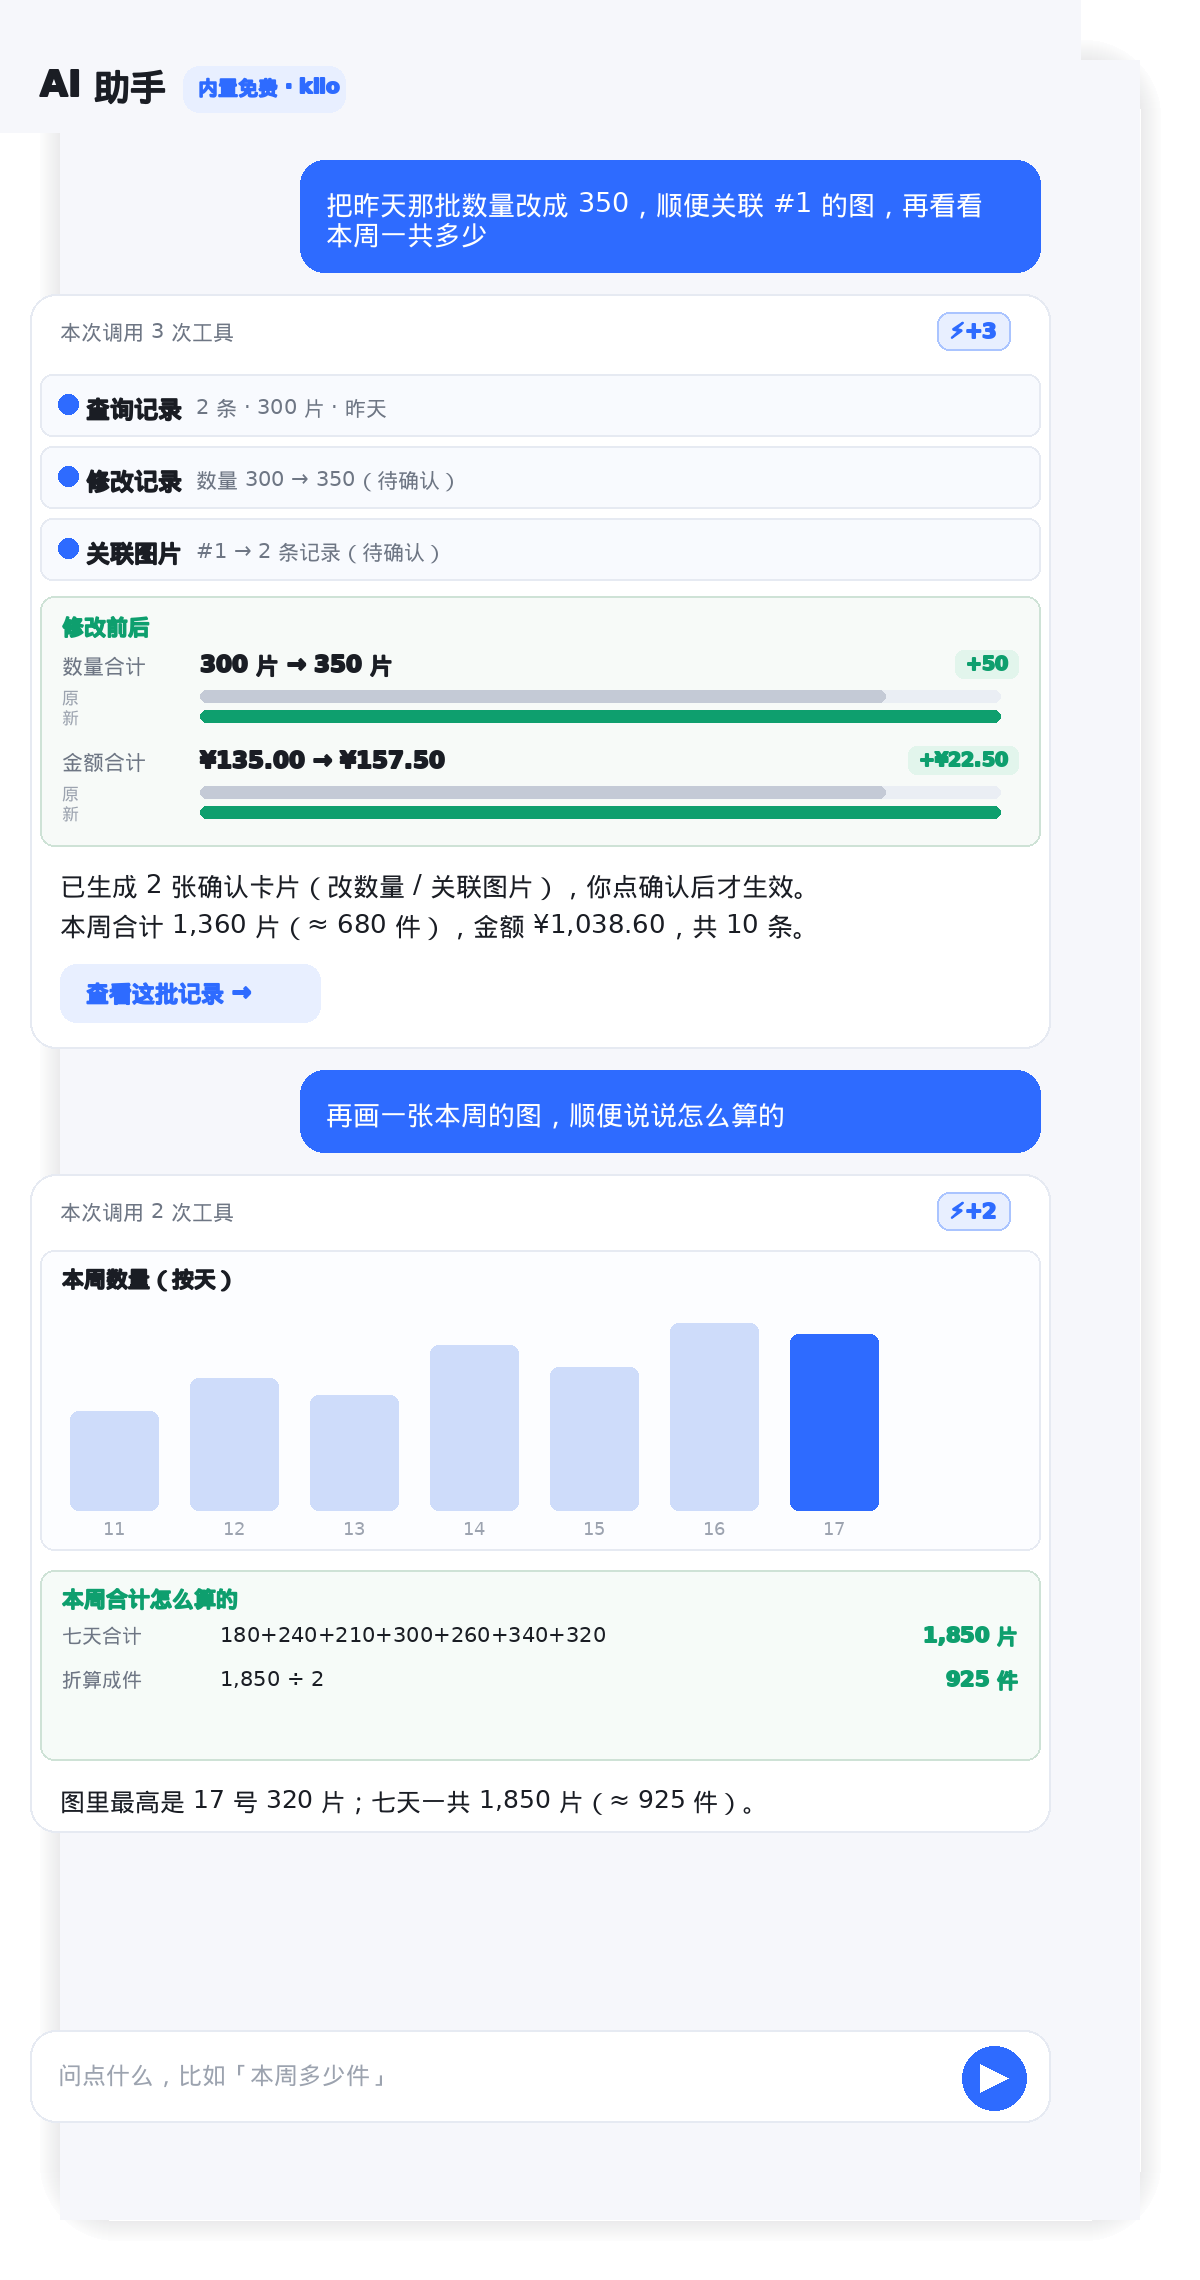
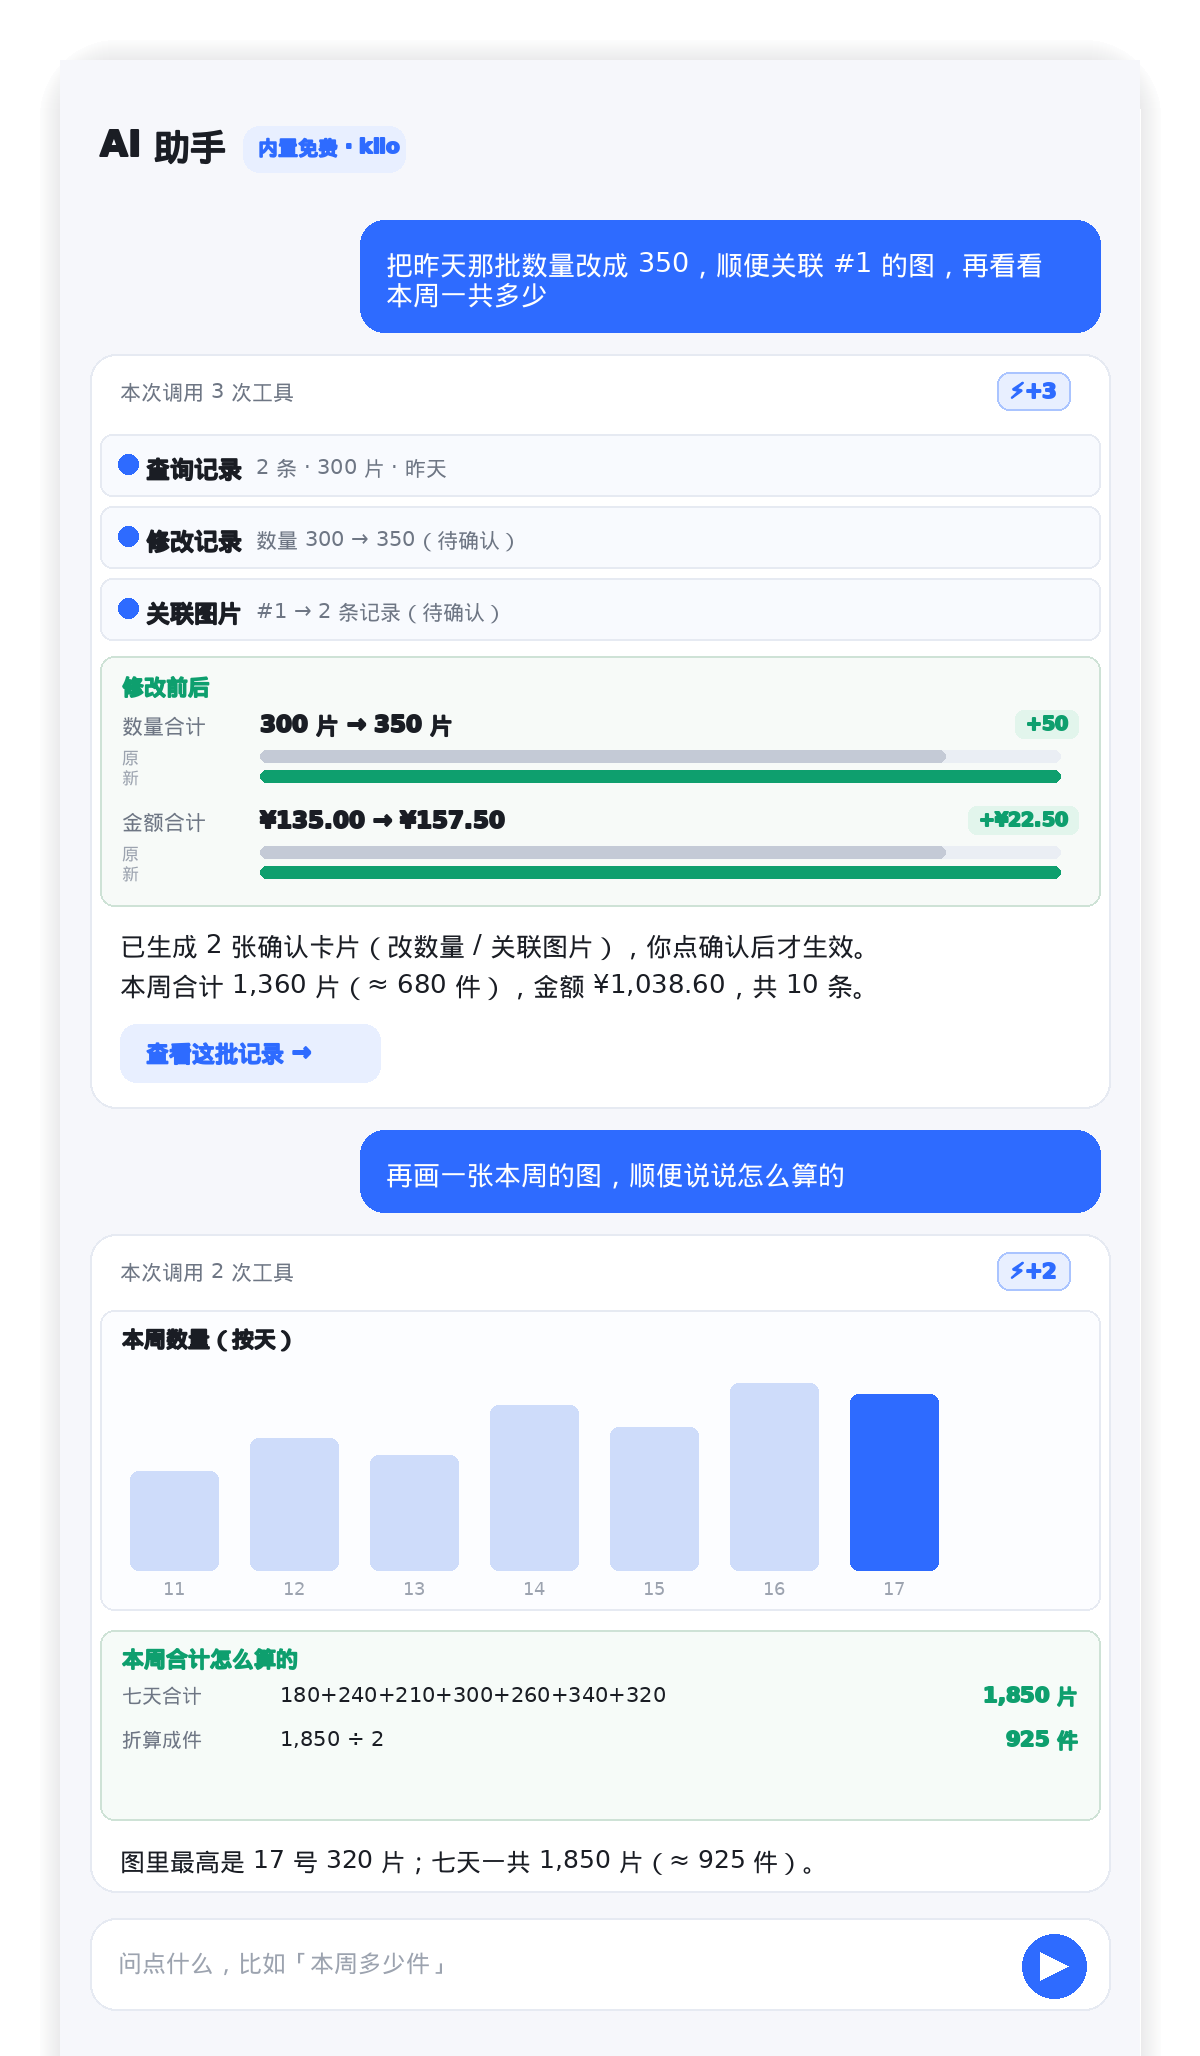
fix(docs): 修 Agent 示意图错位（卡片跑到手机框外）
- 原因：内容画在手机框画布上（坐标 0..W），但屏幕区从 (60,60) 开始，
  整体左上偏移 60px，卡片因此压到边框外
- 改为先画在屏幕层（W×H）再整体贴进框内
- 同时按内容高度裁掉下方空白，手机框跟着变短（不再有大片空区）

diff --git a/tool/make_agent_previews.py b/tool/make_agent_previews.py
@@ -152,8 +152,9 @@ def diff_block(d, y):
     return y + 250
 
 
-def input_bar(d):
-    y = H - 130
+def input_bar(d, y=None):
+    if y is None:
+        y = H - 130
     d.rounded_rectangle((30, y, W - 30, y + 92), radius=26, fill=CARD,
                         outline=LINE, width=2)
     text(d, (58, y + 28), '问点什么，比如「本周多少件」', 24, INK3)
@@ -174,8 +175,9 @@ def appbar(d, title, chip=''):
 
 
 def agent_chat():
-    img = frame()
-    d = ImageDraw.Draw(img)
+    frame_img = frame()
+    screen = Image.new('RGBA', (W, H), BG + (255,))
+    d = ImageDraw.Draw(screen)
     appbar(d, 'AI 助手', '内置免费 · kilo')
     y = 160
     # 用户气泡（多需求）
@@ -220,10 +222,10 @@ def agent_chat():
     cd = ImageDraw.Draw(card)
     cd.rounded_rectangle((30, box_top, W - 30, box_bottom), radius=26,
                          fill=CARD, outline=LINE, width=2)
-    img.alpha_composite(card, (0, 0))
-    img.alpha_composite(layer, (0, 0))
+    screen.alpha_composite(card, (0, 0))
+    screen.alpha_composite(layer, (0, 0))
 
-    d = ImageDraw.Draw(img)
+    d = ImageDraw.Draw(screen)
     y2 = box_bottom + 22
     y2 = bubble_user(d, y2, ['再画一张本周的图，顺便说说怎么算的']) + 22
 
@@ -278,16 +280,22 @@ def agent_chat():
     cd2 = ImageDraw.Draw(card2)
     cd2.rounded_rectangle((30, top2, W - 30, bottom2), radius=26, fill=CARD,
                           outline=LINE, width=2)
-    img.alpha_composite(card2, (0, 0))
-    img.alpha_composite(layer2, (0, 0))
+    screen.alpha_composite(card2, (0, 0))
+    screen.alpha_composite(layer2, (0, 0))
 
-    input_bar(ImageDraw.Draw(img))
-    img.save(os.path.join(OUT, 'agent_chat.png'))
+    ib_y = bottom2 + 26
+    input_bar(ImageDraw.Draw(screen), ib_y)
+    frame_img.alpha_composite(screen, (60, 60))
+    # 按内容高度裁掉下方空白（手机框跟着变短，不留大片空区）
+    cut = min(H + 120, 60 + ib_y + 92 + 46)
+    frame_img = frame_img.crop((0, 0, W + 120, cut))
+    frame_img.save(os.path.join(OUT, 'agent_chat.png'))
 
 
 def agent_terminal():
-    img = frame()
-    d = ImageDraw.Draw(img)
+    frame_img = frame()
+    screen = Image.new('RGBA', (W, H), BG + (255,))
+    d = ImageDraw.Draw(screen)
     appbar(d, 'AI 助手')
     y = 150
     lines = wrap(d, '把 #1 的图关联到昨天那批，再用终端确认一下', 27, 660)
@@ -330,9 +338,9 @@ def agent_terminal():
     card = Image.new('RGBA', (W, H), (0, 0, 0, 0))
     cd = ImageDraw.Draw(card)
     cd.rounded_rectangle((30, top, W - 30, term_bottom), radius=26, fill=DARK)
-    img.alpha_composite(card, (0, 0))
-    img.alpha_composite(layer, (0, 0))
-    d = ImageDraw.Draw(img)
+    screen.alpha_composite(card, (0, 0))
+    screen.alpha_composite(layer, (0, 0))
+    d = ImageDraw.Draw(screen)
 
     # AI 回复
     ry = term_bottom + 24
@@ -358,8 +366,12 @@ def agent_terminal():
     d.rounded_rectangle((300, cy + 396, 300 + 200, cy + 452), radius=14,
                         fill=(236, 239, 245))
     text(d, (326, cy + 410), '取消', 24, INK2, bold=True)
-    input_bar(d)
-    img.save(os.path.join(OUT, 'agent_terminal.png'))
+    ib_y = cy + 470 + 26
+    input_bar(d, ib_y)
+    frame_img.alpha_composite(screen, (60, 60))
+    cut = min(H + 120, 60 + ib_y + 92 + 46)
+    frame_img = frame_img.crop((0, 0, W + 120, cut))
+    frame_img.save(os.path.join(OUT, 'agent_terminal.png'))
 
 
 if __name__ == '__main__':
